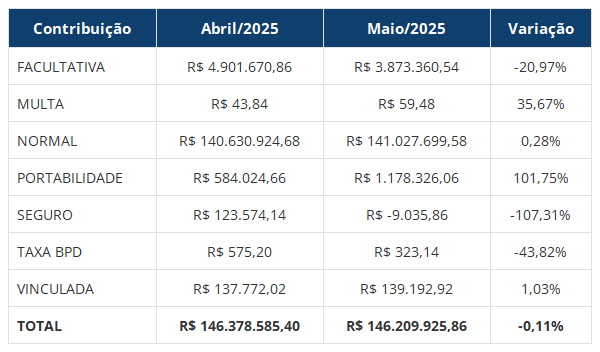
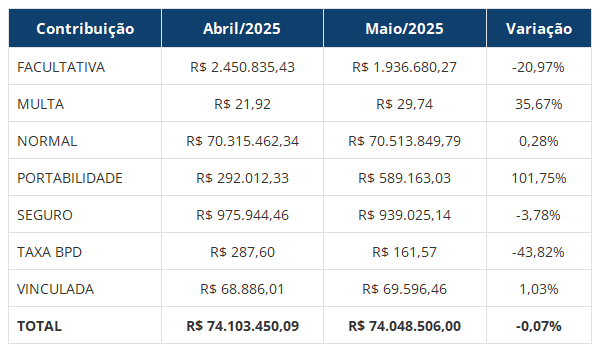
fix: bug da query tabela5 corrigido

diff --git a/queries/tabela5_arrecadacao_tipo.py b/queries/tabela5_arrecadacao_tipo.py
@@ -1,9 +1,11 @@
-# queries/tabela5_arrecadacao_tipo.py
 import datetime
 from dateutil.relativedelta import relativedelta
 
 def gerar_query(ano, mes):
-    """Gera a query para a Tabela 5, usando a lógica completa do usuário e tornando-a dinâmica."""
+    """
+    Gera a query para a Tabela 5, usando a lógica original e completa do usuário
+    e tornando-a dinâmica.
+    """
     
     data_atual = datetime.date(ano, mes, 1)
     data_anterior = data_atual - relativedelta(months=1)
@@ -11,13 +13,13 @@ def gerar_query(ano, mes):
     ano_anterior_logico = data_anterior.year
     mes_anterior_logico = data_anterior.month
 
-    # Usando sua query completa e inserindo as datas dinâmicas
     return f"""
     WITH dados_contribuicao AS (
-        select NR_MES_REF, NR_ANO_REF,
+        select NR_MES_REF,
+            NR_ANO_REF,
             CASE
                 WHEN CONTRIBUICAO IN ('FACULTATIVA', 'FACULTATIVA - GR. NATALINA', 'FACULTATIVA - AUTOPATROCINADO', 'FACULTATIVA ESPORÁDICA', 'FACULTATIVA - JUROS', 'FACULTATIVA - JUROS - AUTOPATROCINADO', 'FACULTATIVA - JUROS - GR. NATALINA', 'FACULTATIVA ESPORÁDICA 2') THEN 'FACULTATIVA'
-                WHEN CONTRIBUICAO IN ('MULTA', 'MULTA - GR. NATALina', 'MULTA - AUTOPATROCINADO') THEN 'MULTA'
+                WHEN CONTRIBUICAO IN ('MULTA', 'MULTA - GR. NATALINA', 'MULTA - AUTOPATROCINADO') THEN 'MULTA'
                 WHEN CONTRIBUICAO IN ('NORMAL', 'NORMAL - AUTOPATROCINADO ', 'NORMAL - GR. NATALINA', 'NORMAL - JUROS', 'NORMAL - JUROS - AUTOPATROCINADO', 'NORMAL - JUROS - GR. NATALINA') THEN 'NORMAL'
                 WHEN CONTRIBUICAO = 'PORTABILIDADE' THEN 'PORTABILIDADE' 
                 WHEN CONTRIBUICAO IN ('SEGURO', 'SEGURO - AUTOPATROCINADO') THEN 'SEGURO'
@@ -27,11 +29,15 @@ def gerar_query(ano, mes):
             SUM(CONTRIB_PARTICIPANTE) AS TOTAL_CONTRIB_PARTICIPANTE,
             SUM(CONTRIB_PATROCINADOR) AS TOTAL_CONTRIB_PATROCINADOR
         from (
-            -- Sua subquery gigante com UNION ALL aqui. Cole-a inteira.
-            -- Exemplo abreviado:
-            SELECT ff.NR_MES_REF, ff.NR_ANO_REF, ptc.tipo_contribuicao CONTRIBUICAO, ff.VL_CONTRIB CONTRIB_PARTICIPANTE, 0 CONTRIB_PATROCINADOR FROM pessoa pe LEFT JOIN hist_contribuicao ff ON ff.id_pessoa = pe.ID_PESSOA LEFT JOIN portal.dbo.participante_tipo_contribuicao ptc on ptc.id_contribuicao_trust = ff.ID_CONTRIBUICAO WHERE pe.IC_PARTICIPANTE = 'S'
+            -- Subquery 1 (Participante)
+            SELECT ff.NR_MES_REF, ff.NR_ANO_REF, ptc.tipo_contribuicao CONTRIBUICAO, ff.VL_CONTRIB CONTRIB_PARTICIPANTE, 0 CONTRIB_PATROCINADOR
+            FROM pessoa pe LEFT JOIN hist_empresa he ON he.id_pessoa = pe.id_pessoa AND he.id_emp = pe.id_emp AND he.nr_ano_ref = (SELECT Max(he1.nr_ano_ref) FROM hist_empresa he1 WHERE he1.id_pessoa = he.id_pessoa) AND he.nr_mes_ref = (SELECT Max(he1.nr_mes_ref) FROM hist_empresa he1 WHERE he1.id_pessoa = he.id_pessoa AND he1.nr_ano_ref = (SELECT Max(he1.nr_ano_ref) FROM hist_empresa he1 WHERE he1.id_pessoa = he.id_pessoa)) LEFT JOIN empresa_situacao es ON he.id_sit_emp = es.id_sit_emp AND he.id_emp = es.id_emp LEFT JOIN empresa ep ON pe.id_emp = ep.id_emp LEFT JOIN (SELECT a1.id_pessoa, a1.id_emp, a1.sg_pessoa, a1.nm_pessoa FROM pessoa a1 WHERE a1.ic_emp_patroc = 'S') emp ON emp.id_pessoa = ep.id_pessoa_emp LEFT JOIN plano_participante pp ON pp.id_pessoa = pe.id_pessoa LEFT JOIN hist_plano_participante hpp ON hpp.id_pessoa = pe.id_pessoa AND Getdate() BETWEEN hpp.dt_ini AND Isnull(hpp.dt_fim, Getdate() + 1) LEFT JOIN plano_situacao ps ON ps.id_situacao = hpp.id_situacao LEFT JOIN PLANO_CATEGORIA pc on pc.ID_CATEGORIA = hpp.ID_CATEGORIA LEFT JOIN hist_contribuicao ff on ff.id_pessoa = pe.ID_PESSOA and ff.ID_CONTRIBUICAO in (select ptc.ID_CONTRIBUICAO_TRUST from portal.dbo.participante_tipo_contribuicao ptc where 1 = 1 and ptc.mantenedor_consolidado = 'PARTICIPANTE' and movimentacao in ('CONTRIBUIÇÃO','AJUSTE','')) and ff.ID_CONTRIBUICAO not in (491,492) left join portal.dbo.participante_tipo_contribuicao ptc on ptc.id_contribuicao_trust = ff.ID_CONTRIBUICAO left join CARGO c on c.ID_CARGO = pe.ID_CARGO AND c.ID_EMP = pe.ID_EMP left join LOCAL LE on le.ID_LOCAL = pe.id_local
+            WHERE 1 = 1 AND pe.IC_EMP_PATROC = 'N' AND pe.IC_PARTICIPANTE = 'S'
             UNION ALL
-            SELECT ff.NR_MES_REF, ff.NR_ANO_REF, ptc.tipo_contribuicao CONTRIBUICAO, 0 CONTRIB_PARTICIPANTE, ff.VL_CONTRIB CONTRIB_PATROCINADOR FROM pessoa pe LEFT JOIN hist_contribuicao ff ON ff.id_pessoa = pe.ID_PESSOA LEFT JOIN portal.dbo.participante_tipo_contribuicao ptc on ptc.id_contribuicao_trust = ff.ID_CONTRIBUICAO WHERE pe.IC_PARTICIPANTE = 'S'
+            -- Subquery 2 (Patrocinador)
+            SELECT ff.NR_MES_REF, ff.NR_ANO_REF, ptc.tipo_contribuicao CONTRIBUICAO, 0 CONTRIB_PARTICIPANTE, ff.VL_CONTRIB CONTRIB_PATROCINADOR
+            FROM pessoa pe LEFT JOIN hist_empresa he ON he.id_pessoa = pe.id_pessoa AND he.id_emp = pe.id_emp AND he.nr_ano_ref = (SELECT Max(he1.nr_ano_ref) FROM hist_empresa he1 WHERE he1.id_pessoa = he.id_pessoa) AND he.nr_mes_ref = (SELECT Max(he1.nr_mes_ref) FROM hist_empresa he1 WHERE he1.id_pessoa = he.id_pessoa AND he1.nr_ano_ref = (SELECT Max(he1.nr_ano_ref) FROM hist_empresa he1 WHERE he1.id_pessoa = he.id_pessoa)) LEFT JOIN empresa_situacao es ON he.id_sit_emp = es.id_sit_emp AND he.id_emp = es.id_emp LEFT JOIN empresa ep ON pe.id_emp = ep.id_emp LEFT JOIN (SELECT a1.id_pessoa, a1.id_emp, a1.sg_pessoa, a1.nm_pessoa FROM pessoa a1 WHERE a1.ic_emp_patroc = 'S') emp ON emp.id_pessoa = ep.id_pessoa_emp LEFT JOIN plano_participante pp ON pp.id_pessoa = pe.id_pessoa LEFT JOIN hist_plano_participante hpp ON hpp.id_pessoa = pe.id_pessoa AND Getdate() BETWEEN hpp.dt_ini AND Isnull(hpp.dt_fim, Getdate() + 1) LEFT JOIN plano_situacao ps ON ps.id_situacao = hpp.id_situacao LEFT JOIN PLANO_CATEGORIA pc on pc.ID_CATEGORIA = hpp.ID_CATEGORIA LEFT JOIN hist_contribuicao ff on ff.id_pessoa = pe.ID_PESSOA and ff.ID_CONTRIBUICAO in (select ptc.ID_CONTRIBUICAO_TRUST from portal.dbo.participante_tipo_contribuicao ptc where 1 = 1 and ptc.mantenedor_consolidado = 'PATROCINADOR' and ptc.movimentacao in ('CONTRIBUIÇÃO','AJUSTE','')) and ff.ID_CONTRIBUICAO not in (491,492) left join portal.dbo.participante_tipo_contribuicao ptc on ptc.id_contribuicao_trust = ff.ID_CONTRIBUICAO left join CARGO c on c.ID_CARGO = pe.ID_CARGO AND c.ID_EMP = pe.ID_EMP left join LOCAL LE on le.ID_LOCAL = pe.id_local
+            WHERE 1 = 1 AND pe.IC_EMP_PATROC = 'N' AND pe.IC_PARTICIPANTE = 'S' AND ff.ID_CONTRIBUICAO IS NOT NULL
         ) a
         where 1=1
         and NR_ANO_REF = {ano}
@@ -39,7 +45,7 @@ def gerar_query(ano, mes):
         group by NR_MES_REF, NR_ANO_REF,
             CASE
                 WHEN CONTRIBUICAO IN ('FACULTATIVA', 'FACULTATIVA - GR. NATALINA', 'FACULTATIVA - AUTOPATROCINADO', 'FACULTATIVA ESPORÁDICA', 'FACULTATIVA - JUROS', 'FACULTATIVA - JUROS - AUTOPATROCINADO', 'FACULTATIVA - JUROS - GR. NATALINA', 'FACULTATIVA ESPORÁDICA 2') THEN 'FACULTATIVA'
-                WHEN CONTRIBUICAO IN ('MULTA', 'MULTA - GR. NATALina', 'MULTA - AUTOPATROCINADO') THEN 'MULTA'
+                WHEN CONTRIBUICAO IN ('MULTA', 'MULTA - GR. NATALINA', 'MULTA - AUTOPATROCINADO') THEN 'MULTA'
                 WHEN CONTRIBUICAO IN ('NORMAL', 'NORMAL - AUTOPATROCINADO ', 'NORMAL - GR. NATALINA', 'NORMAL - JUROS', 'NORMAL - JUROS - AUTOPATROCINADO', 'NORMAL - JUROS - GR. NATALINA') THEN 'NORMAL'
                 WHEN CONTRIBUICAO = 'PORTABILIDADE' THEN 'PORTABILIDADE' 
                 WHEN CONTRIBUICAO IN ('SEGURO', 'SEGURO - AUTOPATROCINADO') THEN 'SEGURO'
@@ -66,19 +72,19 @@ def gerar_query(ano, mes):
     final_com_total AS (
         SELECT 
             CONTRIBUICAO_TIPO, mes_passado, mes_atual,
-            CASE WHEN mes_passado = 0 THEN 100.00 ELSE ROUND(((mes_atual - mes_passado) / mes_passado) * 100, 2) END AS variacao_percentual
+            CASE WHEN mes_passado = 0 AND mes_atual > 0 THEN 100.00 WHEN mes_passado = 0 AND mes_atual = 0 THEN 0.00 ELSE ROUND(((mes_atual - mes_passado) / mes_passado) * 100, 2) END AS variacao_percentual
         FROM totais
         UNION ALL
         SELECT 
             'TOTAL' AS CONTRIBUICAO_TIPO, SUM(mes_passado), SUM(mes_atual),
-            CASE WHEN SUM(mes_passado) = 0 THEN 100.00 ELSE ROUND(((SUM(mes_atual) - SUM(mes_passado)) / SUM(mes_passado)) * 100, 2) END
+            CASE WHEN SUM(mes_passado) = 0 AND SUM(mes_atual) > 0 THEN 100.00 WHEN SUM(mes_passado) = 0 AND SUM(mes_atual) = 0 THEN 0.00 ELSE ROUND(((SUM(mes_atual) - SUM(mes_passado)) / SUM(mes_passado)) * 100, 2) END
         FROM totais
     )
     SELECT 
-        CONTRIBUICAO_TIPO AS Contribuicao,
+        CONTRIBUICAO_TIPO AS [Contribuicao],
         mes_passado,
         mes_atual,
-        variacao_percentual AS Variacao
+        variacao_percentual AS [Variacao]
     FROM final_com_total
     ORDER BY 
         CASE WHEN CONTRIBUICAO_TIPO = 'TOTAL' THEN 'ZZZZ' ELSE CONTRIBUICAO_TIPO END;
